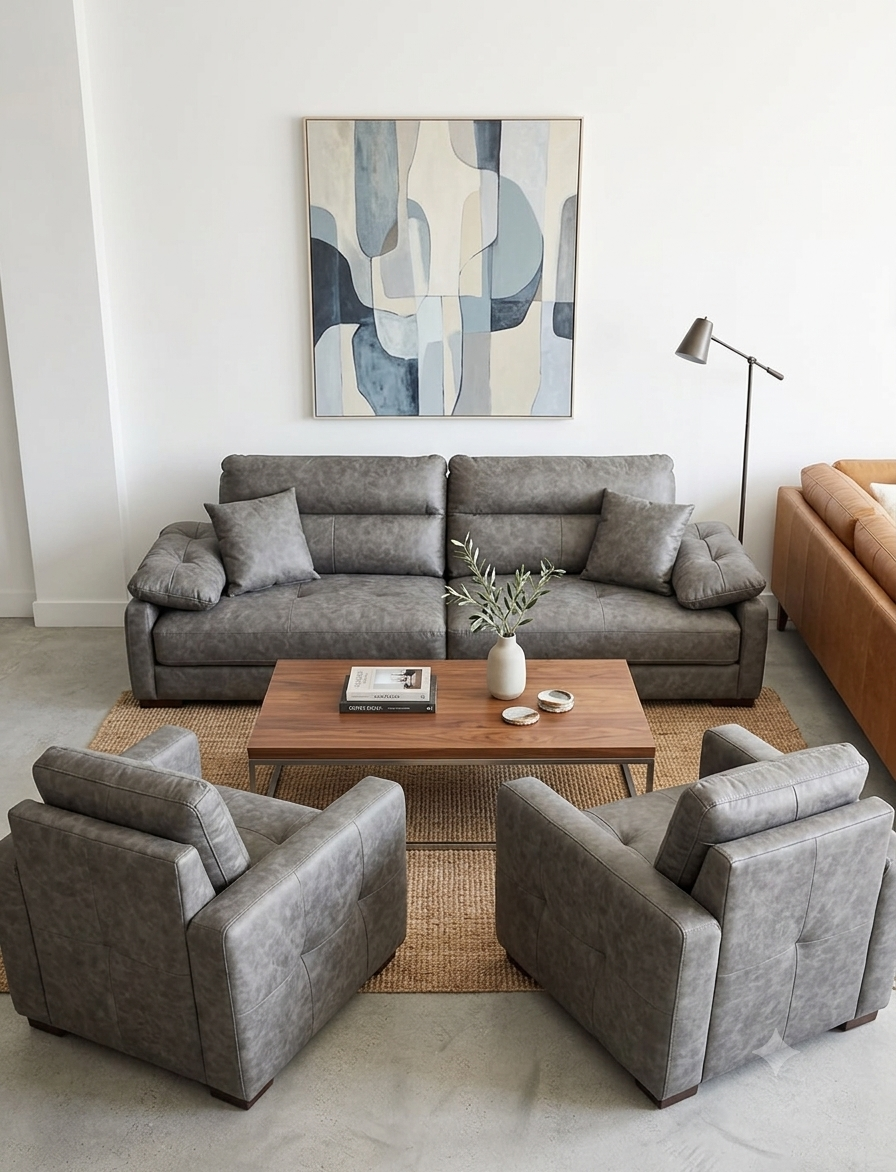
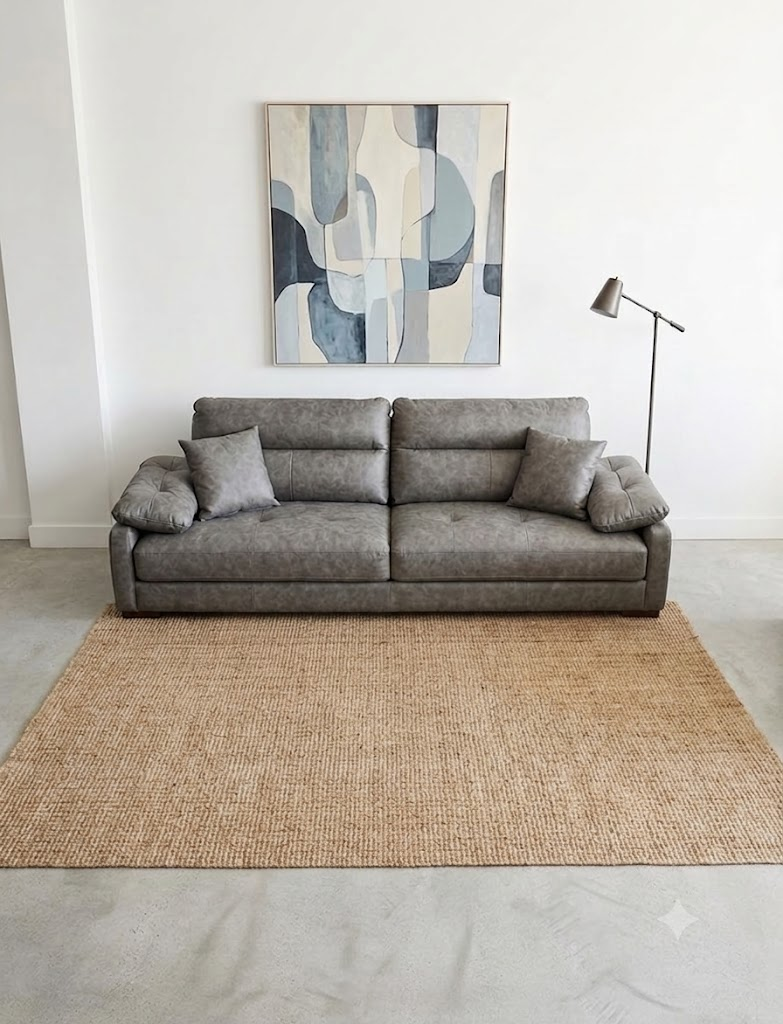
update alpha

diff --git a/products.js b/products.js
@@ -17,7 +17,7 @@ const productData = [
         id: 1,
         name: "ოთხეული #1 (2 ტახტი(თეთრი და კრემისფერი) + 2 სავარძელი(ყავისფერი))",
         description: "საუკეთესო არჩევანი. მოყვება 2 სავარძელი და 2 ტახტი. დაშლა შესაძლებელია",
-        price: 2000,
+        price: 1999,
         dimensions: "213სმ x 84სმ x 38სმ",
         bundle: true,
         tags: ["ნაკრები", "სავარძელი/სკამი", "ტახტი", "მეორადი"],
@@ -29,7 +29,7 @@ const productData = [
         id: 2,
         name: "ოთხეული #2 (2 ტახტი(თეთრი და ლურჯი) + 2 სავარძელი(ყავისფერი))",
         description: "საუკეთესო არჩევანი. მოყვება 2 სავარძელი და 2 ტახტი. დაშლა შესაძლებელია",
-        price: 1500,
+        price: 1499,
         dimensions: "220სმ x 90სმ x 40სმ",
         bundle: true,
         tags: ["ნაკრები", "სავარძელი/სკამი", "ტახტი", "მეორადი"],
@@ -41,7 +41,7 @@ const productData = [
         id: 3,
         name: "ოთხეული #3",
         description: "მდგომარეობა ახალი. უმაღლესი ხარისხის გადახარშულ ტყავზე. მოყვება 2 სავარძელი და 2 ტახტი. დაშლა შესაძლებელია",
-        price: 4000,
+        price: 3999,
         dimensions: "220სმ x 95სმ x 43სმ",
         bundle: true,
         tags: ["ნაკრები", "სავარძელი/სკამი", "ტახტი", "ახალი"],
@@ -53,7 +53,7 @@ const productData = [
         id: 4,
         name: "სამეული #1",
         description: "დივნის საზურგე გადადის უკან. მოყვება 2 სავარძელი და 2 ტახტი. დაშლა შესაძლებელია",
-        price: 2000,
+        price: 1999,
         dimensions: "220სმ x 100სმ x 40სმ",
         bundle: true,
         tags: ["ნაკრები", "სავარძელი/სკამი", "ტახტი", "ახალი"],
@@ -65,7 +65,7 @@ const productData = [
         id: 5,
         name: "ოთხეული #4",
         description: "სახწლურები და საზურგე მოძრავი. მოყვება 2 სავარძელი და 2 ტახტი. დაშლა შესაძლებელია",
-        price: 4000,
+        price: 3999,
         dimensions: "250სმ x 100სმ x 42სმ",
         bundle: true,
         tags: ["ნაკრები", "სავარძელი/სკამი", "ტახტი", "ახალი"],
@@ -77,19 +77,19 @@ const productData = [
         id: 6,
         name: "ოთხეული #5 (2 ტახტი(თეთრი და შინდისფერი) + 2 სავარძელი(თეთრი)",
         description: "არ აქვს გასაშლელი მექანიზმი. მოყვება 2 სავარძელი და 2 ტახტი. დაშლა შესაძლებელია",
-        price: 1900,
+        price: 1899,
         dimensions: "220სმ x 85სმ x 40სმ",
         bundle: true,
         tags: ["ნაკრები", "სავარძელი/სკამი", "ტახტი", "მეორადი"],
         variants: [],
-        new: true,
+        new: false,
         image: "./images/squad5.png"
     },
     {
         id: 7,
         name: "ტახტი #1",
         description: "არ აქვს გასაშლელი მექანიზმი. დაშლა შესაძლებელია",
-        price: 900,
+        price: 899,
         dimensions: "225სმ x 90სმ x 45სმ",
         bundle: false,
         tags: [ "ტახტი", "მეორადი"],
@@ -101,13 +101,49 @@ const productData = [
         id: 8,
         name: "ტახტი #2",
         description: "იშლება წიგნივით, არ არქვს სათავსო.",
-        price: 800,
+        price: 799,
         dimensions: "220სმ x 87სმ x 43სმ",
         bundle: false,
         tags: ["ტახტი", "მეორადი"],
         variants: [],
         new: false,
         image: "./images/sofa2.png"
+    },
+    {
+        id: 9,
+        name: "ტახტი #3",
+        description: "მდგომარეობა მეორადი, უმაღლესი ხარისხის ნაჭერი და ლატექსის ღრუბლით სახელურები და ზურგი მოძრავ მდგომარეობაში. შესაძლებელია ტახტის ცალკე გაყიდვაც.",
+        price: 1199,
+        dimensions: "220სმ x 90სმ x 42სმ",
+        bundle: false,
+        tags: ["ტახტი", "მეორადი"],
+        variants: [],
+        new: false,
+        image: "./images/sofa3.jpeg"
+    },
+    {
+        id: 10,
+        name: "ტახტი #3",
+        description: "დამზადებულია ხავერდის ნაჭერზე და მყარი კარგი ხარისხის ლატექსის ღრუბელზე.",
+        price: 1999,
+        dimensions: "213სმ x 84სმ x 38სმ",
+        bundle: true,
+        tags: ["ნაკრები", "ტახტი", "სავარძელი/სკამი", "მეორადი"],
+        variants: [],
+        new: false,
+        image: "./images/squad6.png"
+    },
+    {
+        id: 10,
+        name: "სამული #2",
+        description: "დამზადებულია ხავერდის ნაჭერზე და მყარი კარგი ხარისხის ლატექსის ღრუბელზე.",
+        price: 999,
+        dimensions: "213სმ x 84სმ x 38სმ",
+        bundle: true,
+        tags: ["ნაკრები", "ტახტი", "სავარძელი/სკამი", "მეორადი"],
+        variants: [],
+        new: false,
+        image: "./images/duo1.png"
     }
 ]
 
@@ -134,7 +170,7 @@ function displayProducts(products) {
           <h3 class="font-bold text-base text-slate-800 mb-1 font-georgian group-hover:text-orange-500 transition-colors line-clamp-2 min-h-[3rem]">
             ${product.name}
           </h3>
-          <p class="text-xl font-black text-orange-500 mb-2"><span class="text-slate-900"><s class="text-lg">₾${product.price+200} </s></span>₾${product.price}</p>
+          <p class="text-xl font-black text-orange-500 mb-2"><span class="text-slate-900"><s class="text-lg">₾${(parseFloat(product.price * 1.15)).toFixed(0)} </s></span>₾${product.price}</p>
           <p class="text-xs text-slate-400 font-sans mb-3 flex items-center gap-1">
             📏 ზომა: <span class="font-semibold text-slate-500">${product.dimensions}</span>
           </p>

diff --git a/index.html b/index.html
@@ -89,7 +89,7 @@
             <h3 class="font-bold text-base text-slate-800 mb-1 font-georgian group-hover:text-orange-500 transition-colors line-clamp-2 min-h-[3rem]">
               სამეული #1
             </h3>
-            <p class="text-xl font-black text-orange-500 mb-2">₾2000</p>
+            <p class="text-xl font-black text-orange-500 mb-2"><s class="text-slate-700 text-lg">₾1880</s> ₾1599</p>
             <p class="text-xs text-slate-400 font-sans mb-3 flex items-center gap-1">
               📏 ზომა: <span class="font-semibold text-slate-500">220სმ x 100სმ x 40სმ</span>
             </p>
@@ -110,7 +110,7 @@
             <h3 class="font-bold text-base text-slate-800 mb-1 font-georgian group-hover:text-orange-500 transition-colors line-clamp-2 min-h-[3rem]">
               ოთხეული #3
             </h3>
-            <p class="text-xl font-black text-orange-500 mb-2">₾4000</p>
+            <p class="text-xl font-black text-orange-500 mb-2"><s class="text-slate-700 text-lg">₾4700</s> ₾3999</p>
             <p class="text-xs text-slate-400 font-sans mb-3 flex items-center gap-1">
               📏 ზომა: <span class="font-semibold text-slate-500">220სმ x 95სმ x 43სმ</span>
             </p>
@@ -131,7 +131,7 @@
             <h3 class="font-bold text-base text-slate-800 mb-1 font-georgian group-hover:text-orange-500 transition-colors line-clamp-2 min-h-[3rem]">
               ოთხეული #4
             </h3>
-            <p class="text-xl font-black text-orange-500 mb-2">₾4000</p>
+            <p class="text-xl font-black text-orange-500 mb-2"><s class="text-slate-700 text-lg">₾4700</s> ₾3999</p>
             <p class="text-xs text-slate-400 font-sans mb-3 flex items-center gap-1">
               📏 ზომა: <span class="font-semibold text-slate-500">250სმ x 100სმ x 42სმ</span>
             </p>
@@ -150,7 +150,7 @@
             <h3 class="font-bold text-base text-slate-800 mb-1 font-georgian group-hover:text-orange-500 transition-colors line-clamp-2 min-h-[3rem]">
               ტახტი #1
             </h3>
-            <p class="text-xl font-black text-orange-500 mb-2">₾900</p>
+            <p class="text-xl font-black text-orange-500 mb-2"><s class="text-slate-700 text-lg">₾1000</s> ₾899</p>
             <p class="text-xs text-slate-400 font-sans mb-3 flex items-center gap-1">
               📏 ზომა: <span class="font-semibold text-slate-500">225სმ x 90სმ x 45სმ</span>
             </p>